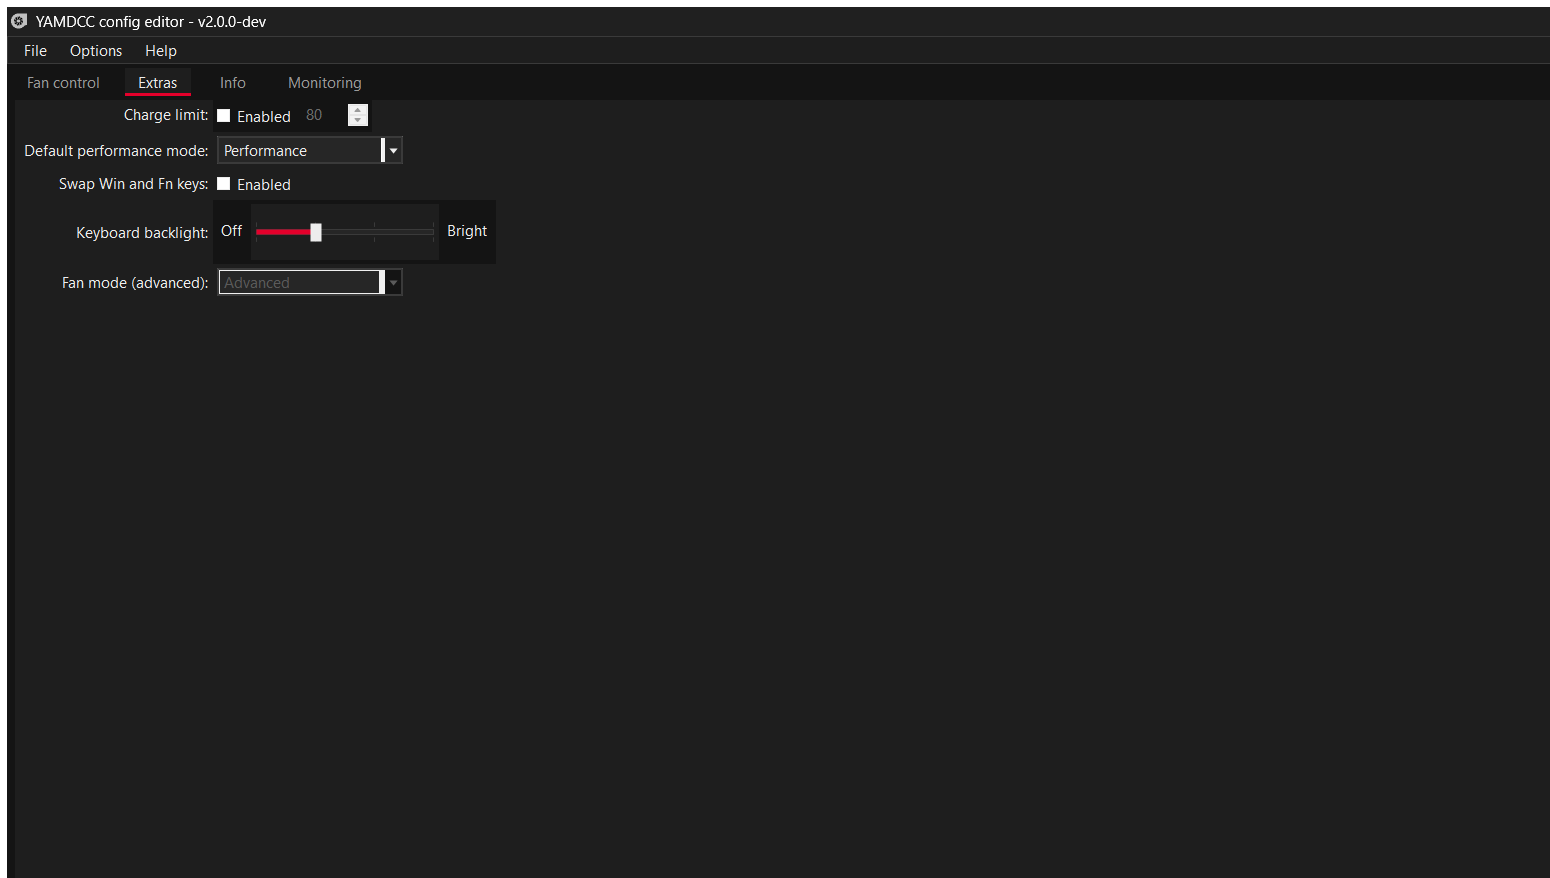
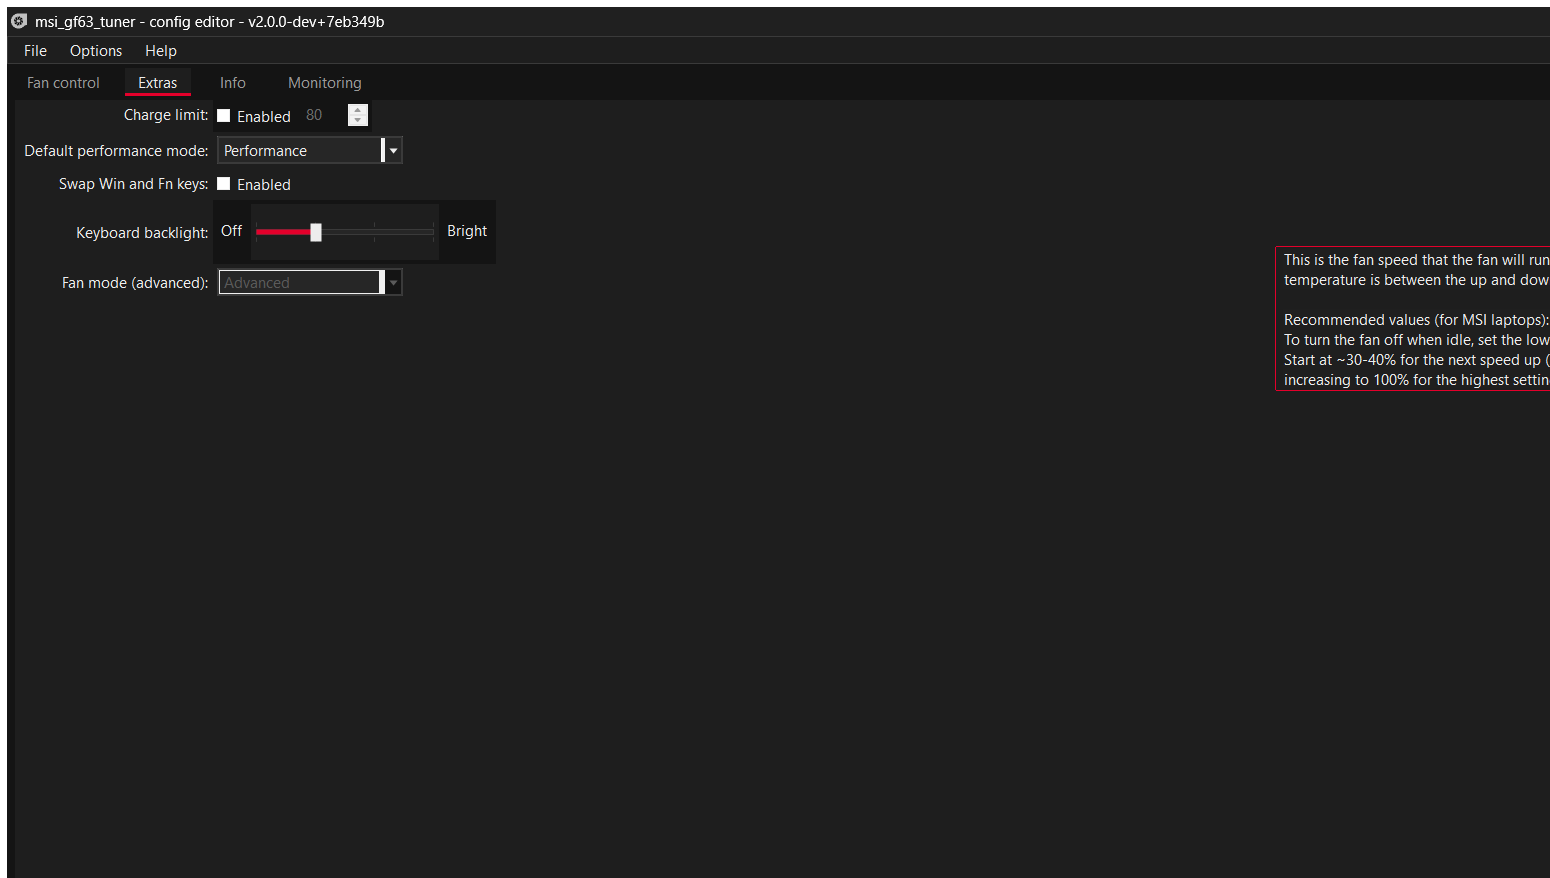
Rename user-visible strings to msi_gf63_tuner
Renames every user-facing occurrence of YAMDCC in the .resx string tables
and the service DisplayName. Internal identifiers are deliberately left
alone: the service is still yamdccsvc and the IPC pipe is still
YAMDCC-Server, since renaming those would break an existing install.

Screenshots retaken from the renamed build.

Changed region(s): [[0.8361, 0.2768, 1.0, 0.4613], [0.031, 0.0, 0.2477, 0.0308]]

diff --git a/YAMDCC.Service/ProjectInstaller.cs b/YAMDCC.Service/ProjectInstaller.cs
@@ -28,7 +28,7 @@ public sealed class ProjectInstaller : Installer
         ServiceInstaller svcInstaller = new()
         {
             Description = Strings.GetString("svcDesc"),
-            DisplayName = "YAMDCC Service",
+            DisplayName = "msi_gf63_tuner Service",
             ServiceName = "yamdccsvc",
             StartType = ServiceStartMode.Automatic
         };
